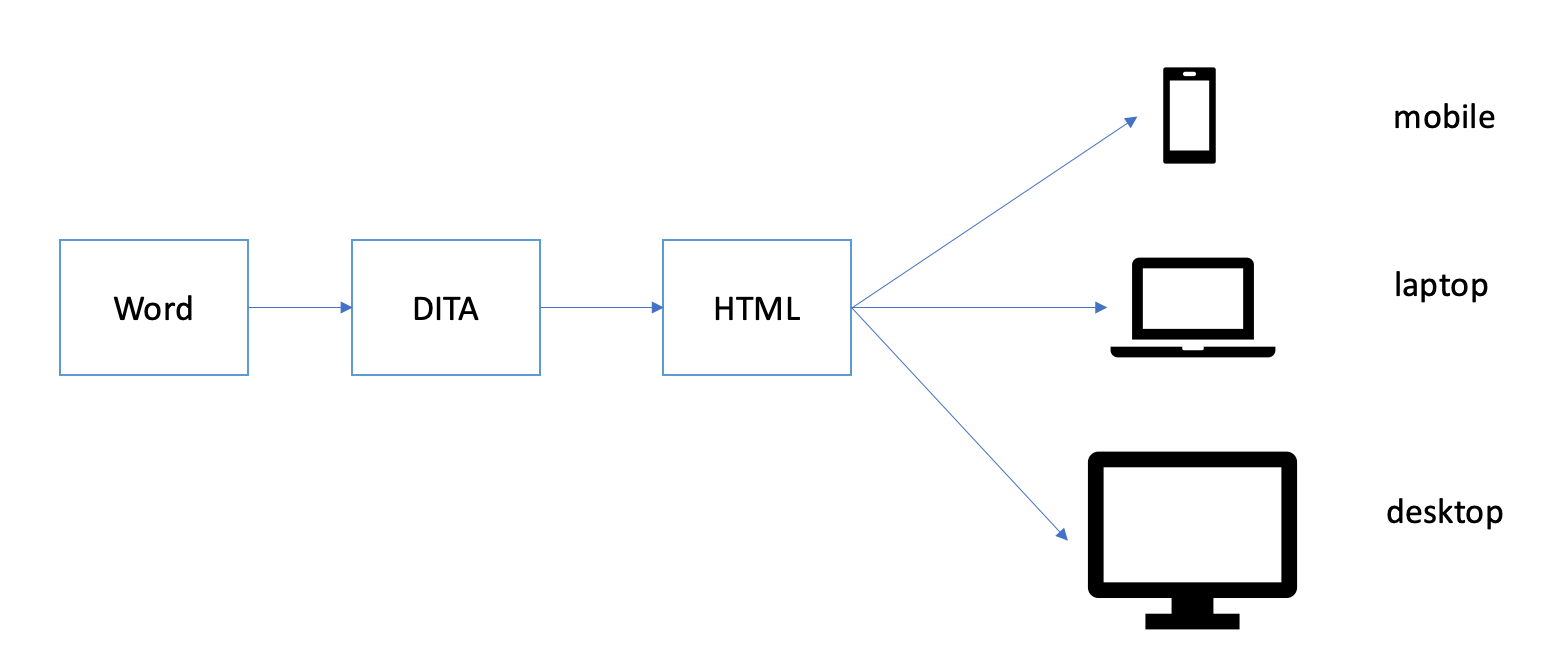
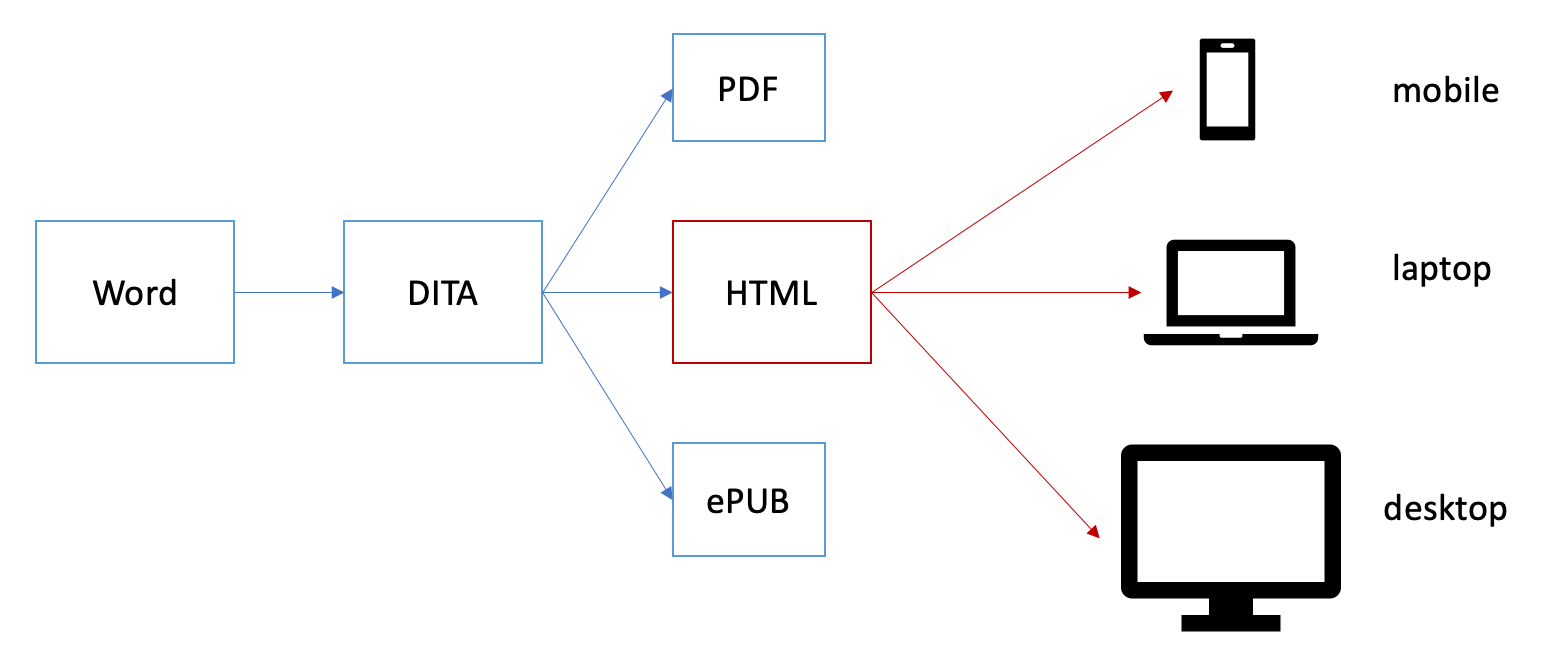
R

diff --git a/iSGWeb.html b/iSGWeb.html
@@ -50,7 +50,8 @@ eBook Focus
 &lt;br&gt;
 Learning Focus
 ]
-
+???
+To move away from an eBook paradigm, we need a web HTML implementation our content.
 ---
 class: inverse
 
